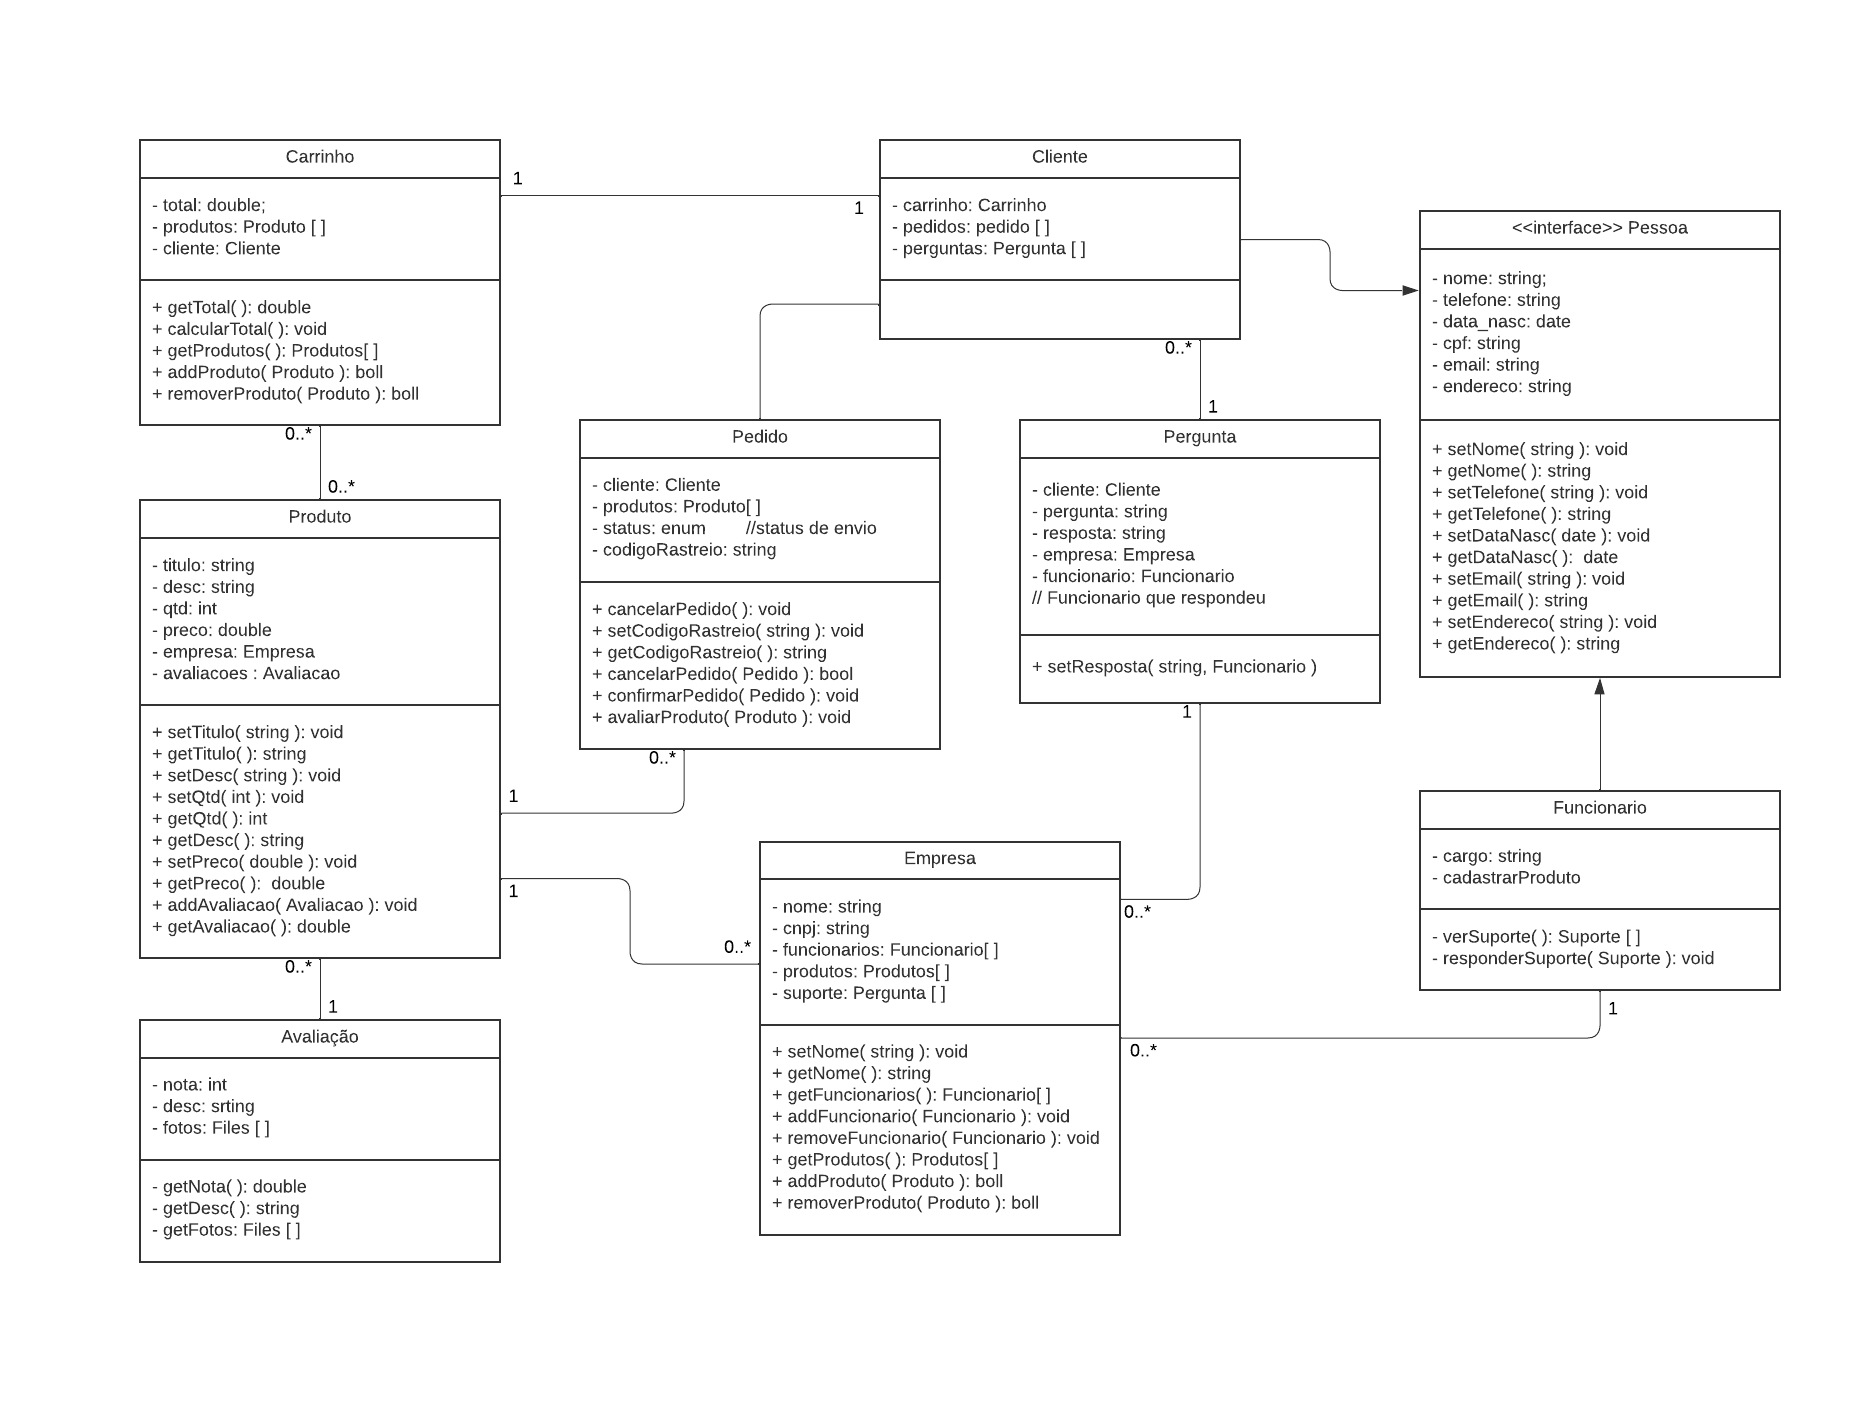
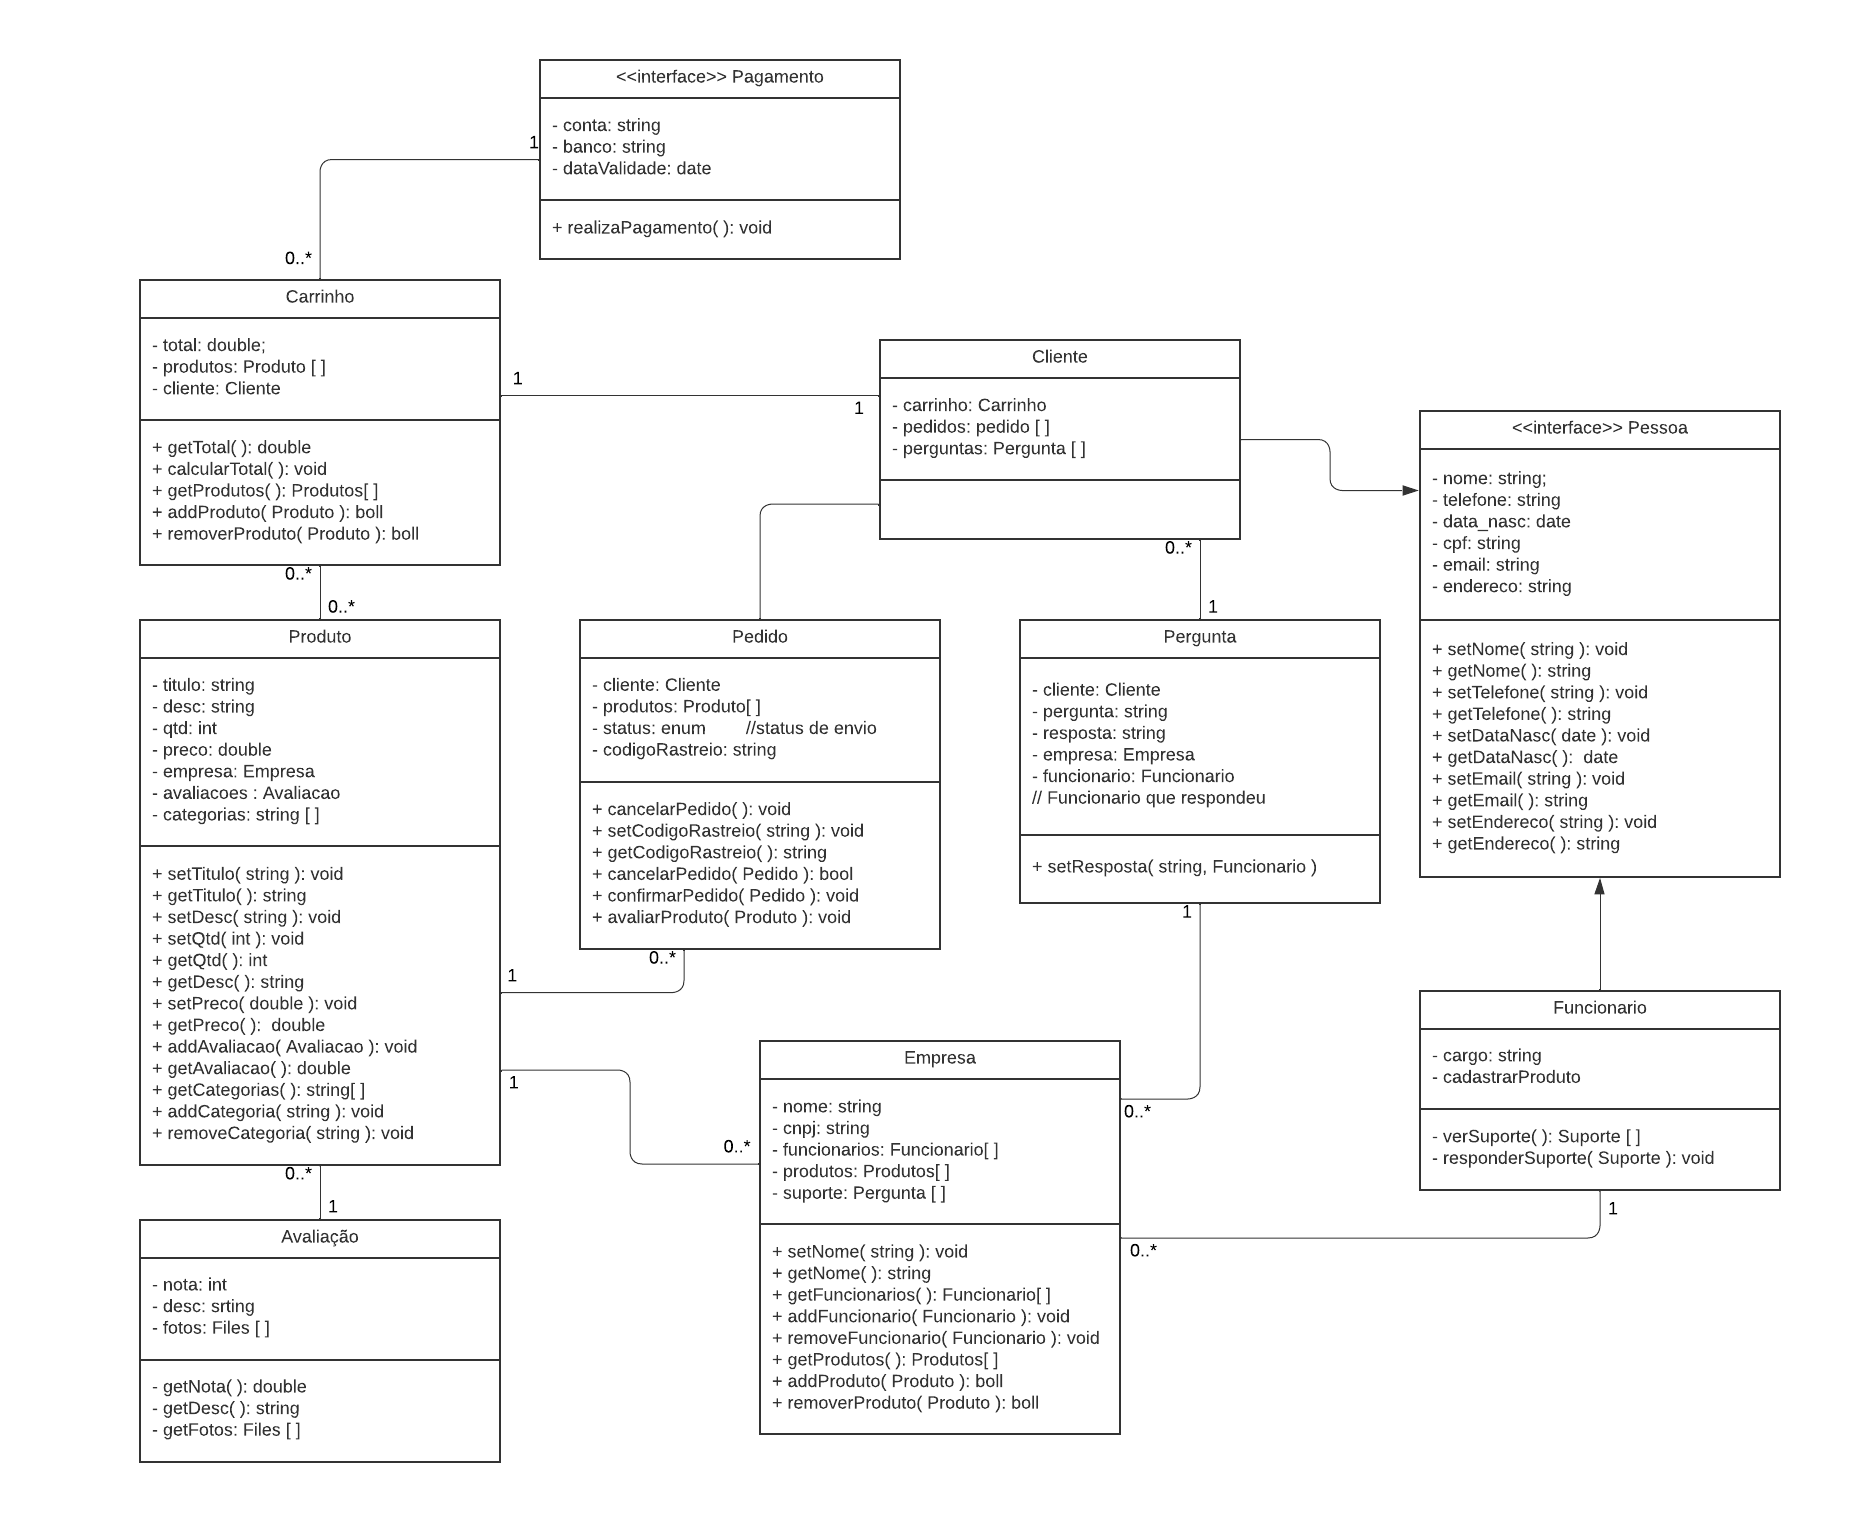
Adicionando ultimos diagramas e atualizando readme

diff --git a/docs/visaogeral.md b/docs/visaogeral.md
@@ -1,38 +1,57 @@
 ### Visão Geral
 
 Nesta subseção, nomearemos e definiremos as diversas camadas e seu conteúdo, as regras que determinam a inclusão em uma camada específica e as fronteiras entre as camadas. Incluiremos um diagrama de componentes que mostra os relacionamentos entre as camadas.
+### Camadas:
 
-#### Camadas da Arquitetura
+#### Camada de Apresentação:
+- **Descrição:** Responsável pela interface com o usuário, apresentando informações de forma clara e interativa.
+- **Papel no Sistema:** Proporciona uma experiência amigável ao usuário, exibindo e coletando dados por meio da interface gráfica.
+- **Principais Componentes:**
+    - Módulo de Interface: Gerencia a interação direta com o usuário.
+    - Componentes de UI: Elementos visuais que compõem a interface, como páginas, formulários e elementos interativos.
+- **Regras:**
+    - Todos os elementos visuais e interativos fazem parte desta camada.
+    - Lida com a apresentação e coleta de dados sem processamento lógico significativo.
 
-**Camada de Apresentação:**
-- Descrição da camada de apresentação e seu papel no sistema.
-- Os principais componentes que pertencem a esta camada.
-- Regras que determinam o que pertence a esta camada.
+#### Camada de Lógica de Negócios:
+- **Descrição:** Concentra as regras de negócios e processamento lógico do sistema.
+- **Papel no Sistema:** Realiza o processamento de dados, aplica regras de negócios e coordena a lógica do sistema.
+- **Principais Componentes:**
+    - Controladores: Gerenciam o fluxo de dados entre a interface e a camada de dados.
+    - Serviços de Negócios: Implementam regras específicas do domínio e processamento lógico.
+- **Regras:**
+    - Responsável pela lógica de negócios e coordenação de processos.
+    - Não lida diretamente com a persistência ou manipulação de dados.
 
-**Camada de Lógica de Negócios:**
-- Descrição da camada de lógica de negócios e seu papel no sistema.
-- Os principais componentes que pertencem a esta camada.
-- Regras que determinam o que pertence a esta camada.
-
-**Camada de Dados:**
-- Descrição da camada de dados e seu papel no sistema.
-- Os principais componentes que pertencem a esta camada.
-- Regras que determinam o que pertence a esta camada.
-
-#### Diagrama de Componentes da Arquitetura
-
-A figura a seguir ilustra a estrutura de camadas da arquitetura e seus relacionamentos:
-
-[Insira aqui o seu diagrama de componentes que mostra as camadas e os principais componentes]
+#### Camada de Dados:
+- **Descrição:** Armazena e gerencia os dados do sistema.
+- **Papel no Sistema:** Responsável pelo armazenamento, recuperação e manipulação de dados persistentes.
+- **Principais Componentes:**
+    - Bancos de Dados: Armazenam dados de usuários, produtos, transações, etc.
+    - Repositórios de Dados: Abstraem a interação com os bancos de dados.
+- **Regras:**
+    - Manipula a persistência e recuperação de dados.
+    - Não executa processamento lógico significativo.
 
 ### Diagrama de Sequência
 
 Nesta seção, apresentaremos diagramas de sequência que ilustram as interações entre os componentes do sistema em cenários-chave. Esses diagramas destacarão o fluxo de controle e as trocas de mensagens entre os componentes.
 
-[Inclua aqui um ou mais diagramas de sequência relevantes]
+- Cadastrar produto
+![Cadastro de produto](./img/diagramas/sequencia/Cadastrar produto.png "Cadastrar produto")
+
+- Comprar produto
+![Comprar produto](./img/diagramas/sequencia/Comprando produto.png "Comprar produto")
+
+- Avaliando produto
+![Avaliando produto](./img/diagramas/sequencia/Avaliação.png "Avaliando produto")
+
+- Suporte
+![Suporte](./img/diagramas/sequencia/Suporte.png "Suporte")
 
 ### Diagrama de Classes
 
 Aqui, forneceremos um diagrama de classes que descreve a estrutura de classes do sistema, incluindo atributos e métodos. Esse diagrama ajudará a entender a estrutura dos componentes em cada camada e as relações entre eles.
 
-[Inclua aqui o seu diagrama de classes]
+- Diagrama de classes:
+![Diagrama de classes](./img/diagramas/classe/classes.png "Diagrama de classes")

diff --git a/docs/logica.md b/docs/logica.md
@@ -1,3 +1,72 @@
 # Visão Lógica
 
-- [Esta seção descreve as partes significativas do ponto de vista da arquitetura do modelo de design, como sua divisão em subsistemas e pacotes. Além disso, para cada pacote significativo, ela mostra sua divisão em classes e  utilitários declasse. Apresente as classes significativas do ponto de vista da arquitetura e descreva suas responsabilidades, bem como alguns relacionamentos, operações e atributos de grande importância.]
+## Subsistema: Gestão de Produtos
+
+### Pacote: Produto
+- **Classes:**
+- `Produto`: Representa um produto na loja.
+
+## Subsistema: Gestão de Pedidos
+
+### Pacote: Pedido
+- **Classes:**
+- `Pedido`: Representa um pedido feito por um cliente.
+- `Produto`: Descreve um item ou mais itens específico em um pedido.
+- `Carrinho`: Gerencia os itens no carrinho de compras para transferilas a classe `Pedido`.
+
+## Subsistema: Gestão de Pedidos
+
+### Pacote: Pedido
+- **Classes:**
+- `Pedido`: Representa um pedido feito por um cliente.
+- `Produto`: Descreve um item ou mais itens específico em um pedido.
+- `Carrinho`: Gerencia os itens no carrinho de compras.
+
+## Subsistema: Processamento de Pagamento
+
+### Pacote: Pagamento
+- **Classes:**
+- `Carrinho`: Responsável pela lógica de calcular o preço total.
+- `Pagamento`: Define um interface para os meios de pagamento implementados.
+
+## Subsistema: Autenticação e Conta do Cliente
+
+### Pacote: Cliente
+- **Classes:**
+- `Cliente`: Representa um cliente registrado na loja.
+
+## Subsistema: Gestão de Usuários
+
+### Pacote: Usuário
+- **Classes:**
+- `Administrador`: Representa um administrador do sistema.
+- `Cliente`: Estende a classe de cliente e adiciona funcionalidades específicas para clientes registrados.
+
+## Subsistema: Integração com Logística
+
+### Pacote: Logística
+- **Classes:**
+- `Pedido`: Armazena o status de envio do pedido e rastreamento.
+
+## Relacionamentos e Atributos
+
+- `Cliente` herda a interface `Pessoa`
+- `Funcionario` herda a interface `Pessoa`
+- `Pergunta` possue uma associação com `Cliente`
+- `Pergunta` possue uma associação com `Empresa`
+- `Empresa` possue uma associação com `Funcionario`
+- `Produto` possue uma associação com `Empresa`
+- `Produto` possue uma associação com `Avalicao`
+- `Cliente` possue uma associação com `Carrinho`
+- `Carrinho` possue uma associação com `Produto`
+- `Carrinho` possue uma associação com `Pagamento`
+- `Cliente` possue uma associação com `Pedido`
+- `Pedido` possue uma associação com `Produto`  
+
+## Operações Importantes
+
+- `ProcessarPedido` na classe `Cliente`.
+- `AdicionarItem` e `RemoverItem` na classe `Carrinho`.
+- `AdicionarProduto`,`RemoverProduto`, `AdicionarFuncionario` e `RemoverFuncionario` na classe `Empresa`
+- `ResponderSuporte` na classe `Funcionario`
+- `CancelarPedido` e `ConfirmarEntrega` na classe `Pedido`

diff --git a/docs/casos.md b/docs/casos.md
@@ -1,9 +1,32 @@
 # Diagrama de Caso de Uso
 
-- **Seleção de Casos de Uso:** Liste os Diagramas de Casos de Uso que são considerados arquiteturalmente significativos para o sistema (No mínimo 5).
-- **Critérios de Seleção:** Explique os critérios que levaram à seleção desses casos de uso.
-- **Descrição de Casos de Uso:** Forneça uma breve descrição de cada caso de uso, destacando sua importância arquitetural.
-- **Pontos Complexos da Arquitetura:** Identifique quais pontos complexos e específicos da arquitetura são enfatizados ou ilustrados por cada caso de uso.
+- **Seleção de Casos de Uso:** para estre projeto, foram escolhidos 5 cenários para os diagramas de uso sendo eles:
+    - Realizando compra
+    - Contas
+    - Pesquisando produtos
+    - Suporte
+    - Acompanhamento do produto
+- **Critérios de Seleção:** cenários mais comuns em um sistema de loja virtual.
+- **Descrição de Casos de Uso:** 
+    - **Realizando compra**: detalha as opções do cliente ao realizar a compra de algum produto.
+    - **Contas**: mostra as opções de conta que o cliente e os vendedores possuem.
+    - **Pesquisando produtos**: mostrar as opções disponiveis ao usuário ao realizar uma pesquisa de produtos.
+    - **Suporte**: mostra a opções do usuário ao contatar o suporte do sistema.
+    - **Acompanhamento do produto**: detalha o acompanhamento do envio do produto feito pelo cliente e o vendedor.
 
 # Cenários
 - **Crie o Cenário:** Crie o cenário completo de ao menos 5 casos de uso. 
+- Realizando compra
+![Realizar compra](./img/diagramas/casoDeUso/Realizar%20compra.png "Realizar compra")
+
+- Contas
+![Contas](./img/diagramas/casoDeUso/Contas.png "Contas")
+
+- Pesquisando produtos
+![Pesquisa](./img/diagramas/casoDeUso/Pesquisa%20de%20produto.png "Pesquisa")
+
+- Suporte
+![Suporte](./img/diagramas/casoDeUso/Suporte.png "Suporte")
+
+- Acompanhamento do produto
+![Acompanhamento](./img/diagramas/casoDeUso/Acompanhamento%20do%20pedido.png "Acompanhamento")

diff --git a/docs/representacao.md b/docs/representacao.md
@@ -1,3 +1,31 @@
 # Representação Arquitetural
 
-- [Esta seção descreve qual é a arquitetura de software do sistema atual e como ela é representada. Da Visão de Casos de Uso, Visão Lógica, Visão de Processos, Visão de Implementação e Visão de Implantação, enumera as visões necessárias e, para cada visão, explica quais tipos de elementos de modelo ela contém.]
+## 1. Visão de Casos de Uso:
+
+- **Elementos de Modelo:**
+    - **Ator:** Cliente, Vendendor, Funcionario, Administrador
+    - **Caso de Uso:** "Realizando compra", "Contas" , "Pesquisando produtos", "Suporte", "Acompanhamento do produto".
+
+## 2. Visão Lógica:
+
+- **Elementos de Modelo:**
+    - **Classe:** Cliente, Pedido, Funcionario, Empresa, Carrinho, Produto, Pedido, Avaliacao e Pergunta.
+    - **Relacionamentos:**   <br/>
+        - `Cliente` herda a interface `Pessoa` <br/>
+        - `Funcionario` herda a interface `Pessoa`  <br/>
+        - `Pergunta` possue uma associação com `Cliente`  <br/>
+        - `Pergunta` possue uma associação com `Empresa`  <br/>
+        - `Empresa` possue uma associação com `Funcionario` <br/>
+        - `Produto` possue uma associação com `Empresa`  <br/>
+        - `Produto` possue uma associação com `Avalicao`  <br/>
+        - `Cliente` possue uma associação com `Carrinho` <br/>
+        - `Carrinho` possue uma associação com `Produto` <br/>
+        - `Carrinho` possue uma associação com `Pagamento` <br/>
+        - `Cliente` possue uma associação com `Pedido` <br/>
+        - `Pedido` possue uma associação com `Produto`  <br/>
+
+## 3. Visão de Processos:
+
+- **Elementos de Modelo:**
+    - **Diagrama de Sequência:** Representação de interações entre objetos ao longo do tempo.
+    - **Diagrama de Atividades:** Avaliação, Cadastrar produto, Comprando produto e Suporte.

diff --git a/docs/dados.md b/docs/dados.md
@@ -1,7 +1,18 @@
 # Gerenciamento de Dados
+### Estratégia de Armazenamento de Dados
 
-# Estratégia de armazenamento de dados
-- Explique as estratégias utilizadas e o motivo do uso da tecnologia. 
+O sistema StormTech adota uma abordagem robusta e eficiente para o armazenamento de dados, utilizando um banco de dados relacional para garantir consistência e confiabilidade. A estratégia de armazenamento de dados é projetada para atender aos requisitos específicos do sistema, proporcionando uma base sólida para operações eficazes e escalabilidade.
+
+#### Estratégia Utilizada: Banco de Dados Relacional
+- **Motivação:**
+    - **Consistência e Integridade:** Bancos de dados relacionais oferecem um modelo de dados estruturado que facilita a manutenção da consistência e integridade dos dados.
+    - **Suporte a Transações:** A capacidade de realizar transações garante que as operações sejam atomicamente executadas, contribuindo para a confiabilidade das operações.
+    - **Modelagem Relacional:** A modelagem relacional permite representar relações complexas entre diferentes entidades, refletindo fielmente a lógica de negócios do StormTech.
+
+#### Estratégias de Otimização:
+- **Indexação Adequada:** Utilização eficiente de índices para acelerar operações de consulta e garantir um acesso mais rápido aos dados.
+- **Normalização e Desnormalização Controlada:** Equilíbrio entre a normalização para evitar redundância e a desnormalização controlada para otimizar consultas frequentes.
 
 # Gerenciamento de bancos de dados
-- Incluir também imagens e  o modelo do Diagrama de Dados. 
+- Banco de dados: Estrutura
+![Diagrama de banco de dados](./img/diagramas/bancoDeDados/bd.png "Diagrama de banco de dados")

diff --git a/README.md b/README.md
@@ -1,12 +1,6 @@
-# RepositorioTemplate
-
-Repositório que deve ser utilizado como template inicial pelos grupos da Disciplina de Engenharia de Software III (Arquitetura de Software) do IFPI Campus Pedro II, ministrada pelo Prof. Cleber Araújo. **Atenção: Renomeie o seu repositório para (Ano.Semestre)(Grupo)(NomeDoProjeto).** 
-
-(Apague esta seção)
-
-# NomedoProjeto
-**Nome do Grupo:** ArchStorm
-**Disciplina:** Engenharia de Software III
+# Stormtech
+**Nome do Grupo:** ArchStorm <br/>
+**Disciplina:** Engenharia de Software III <br/>
 **Professor:** Cléber Araujo
 
 
@@ -49,10 +43,30 @@ O StormTech é construído utilizando uma arquitetura MVC, adotando tecnologias 
 ## Instalação
 - **Tecnologias:** MKDocs
 
-Descreva os pré-requisitos para rodar o seu projeto e os comandos necessários. Insira um manual ou um script para auxiliar ainda mais.
+Para rodar o projeto do MKDocs em seu computador, o MKDocs necessita de algumas dependências para rodar normalmente, algumas extensões.
+
+ 1. Instalando MKDocs
+```bash
+pip install mkdocs
+```
+
+2. Instalando dependências do MKdocs
+```bash
+pip install pymdown-extensions --force
+```
+
 
 ## Uso
-Explique como usar o seu projeto, caso haja algum passo a passo após o comando de execução.
+Abra a pasta do projeto e inicie o servidor do projeto
+```bash
+mkdocs serve
+```
+Caso esteja rodando em sistema Windows este é o comando:
+```bash
+python -m mkdocs serve
+```
+
+
 
 ## Vídeo
 Adicione 1 ou mais vídeos demonstrando a execução do projeto final.
